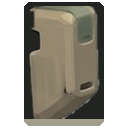
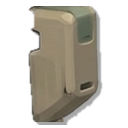
Bench: the fitted part re-cut as a clean cut-out (T-20261016-146)

Changed region(s): [[0.1875, 0.0, 0.8125, 1.0]]

diff --git a/art/station-masters/pods/bench/t146/proof.py b/art/station-masters/pods/bench/t146/proof.py
@@ -1,0 +1,44 @@
+"""T-20261016-146 proof at 1x, labelled: the Fit the upgrade? panel over the bench, with the T-47/T-70 kit and composite rule (glow, stage,
+contact shadow, the picture's feet on y + 168, the pool's light over it): Fit it (focused) shows the re-cut bench-part-t2-fitted-128, Not now
+shows bench-part-t2-dim-128. Stand-ins: the words, the cost icons (cropped from the Create golden's top bar), the ring; and the old fitted
+master beside it for comparison.
+usage: python3 -I bench/t146/proof.py SLICES BENCH_SLICES GOLDEN_DIR FONTS OLD_FITTED OUT"""
+import sys, os, numpy as np
+from PIL import Image, ImageDraw, ImageFont
+sl, bsl, gold, fonts, oldp, out = sys.argv[1:7]; os.makedirs(out, exist_ok=True)
+Lo = lambda p: Image.open(p).convert("RGBA"); S = lambda n: Lo(os.path.join(sl, n + ".png")); B = lambda n: Lo(os.path.join(bsl, n + ".png"))
+F = lambda w, z: ImageFont.truetype(os.path.join(fonts, f"Inter-{w}.ttf"), z)
+BONE, MIST, FOCUS = (0xf1, 0xeb, 0xdf), (0x8d, 0x8a, 0xa6), (0xff, 0xb4, 0x4a)
+cap = np.asarray(Image.open(os.path.join(gold, "create", "create-shape.png")).convert("RGB")).astype(float); bg = np.median(cap[4:36, 600:640].reshape(-1, 3), 0)
+def icon(x):
+    c = cap[12:28, x:x + 16]; d = np.abs(c - bg).max(2); a = np.clip((d - 10) / 40, 0, 1)
+    return Image.fromarray(np.dstack([c, a * 255]).astype(np.uint8), "RGBA")
+ENERGY, DATA = icon(443), icon(497)
+def panel(fitted):
+    f = Lo(os.path.join(gold, "bench", "bench.png")); f.alpha_composite(S("panel-veil-1024x522"), (0, 40)); f.alpha_composite(S("panel-housing-840x440"), (92, 80))
+    d = ImageDraw.Draw(f); t = "Fit the upgrade?"; d.text((512 - d.textlength(t, font=F("SemiBold", 28)) / 2, 96), t, font=F("SemiBold", 28), fill=BONE)
+    for i, (pic, name, costs, line) in enumerate(((fitted, "Fit it", True, "reaches further"), (B("bench-part-t2-dim-128"), "Not now", False, None))):
+        x, y, w = 124 + i * 396, 152, 380
+        f.alpha_composite(S(f"panel-card-{w}x288{'-focused' if i == 0 else ''}"), (x, y)); f.alpha_composite(S("panel-glow-348x160"), (x + 16, y + 16))
+        f.alpha_composite(S("panel-stage-348x48"), (x + 16, y + 136))
+        pa = np.asarray(pic)[..., 3]; rows = np.nonzero((pa >= 128).any(1))[0]; cols = np.nonzero((pa >= 128).any(0))[0]
+        px = x + 16 + (348 - pic.width) // 2; py = y + 168 - rows.max()
+        cs = S("panel-contact-shadow-128x16").resize((cols.max() - cols.min() + 17, 16), Image.LANCZOS); f.alpha_composite(cs, (px + cols.min() - 8, y + 160))
+        f.alpha_composite(pic, (px, py)); f.alpha_composite(S("panel-light-348x160"), (x + 16, y + 16))
+        d = ImageDraw.Draw(f); d.text((x + 16, y + 184), name, font=F("Medium", 20), fill=BONE)
+        if costs:
+            cx = x + 16
+            for ic, fig in ((ENERGY, "12"), (DATA, "4")):
+                gw = 20 + int(d.textlength(fig, font=F("Regular", 16))); chw = gw + 16; ch = S("panel-chip-40x20"); chip = Image.new("RGBA", (chw, 20))
+                chip.paste(ch.crop((0, 0, 10, 20)), (0, 0)); chip.paste(ch.crop((10, 0, 30, 20)).resize((chw - 20, 20)), (10, 0)); chip.paste(ch.crop((30, 0, 40, 20)), (chw - 10, 0))
+                f.alpha_composite(chip, (cx, y + 216)); f.alpha_composite(ic, (cx + 8, y + 218)); d = ImageDraw.Draw(f); d.text((cx + 28, y + 216), fig, font=F("Regular", 16), fill=FOCUS); cx += chw + 8
+        if line: d.text((x + 16, y + 244), line, font=F("Regular", 16), fill=MIST)
+        if i == 0: d.rounded_rectangle([x - 4, y - 4, x + w + 3, y + 291], radius=14, outline=FOCUS, width=2)
+    return f
+def label(f, s, y=540):
+    d = ImageDraw.Draw(f); lb = F("Medium", 16); d.rectangle([8, y, 16 + d.textlength(s, font=lb), y + 24], fill=(0, 0, 0)); d.text((12, y + 3), s, font=lb, fill=(255, 255, 255))
+a = panel(B("bench-part-t2-fitted-128")); label(a, "PROOF T-20261016-146: Fit the upgrade?, the fitted part re-cut (left) beside the dim part, 1x. Words, icons, ring: stand-ins")
+a.convert("RGB").save(os.path.join(out, "bench-panel-upgrade-1x.png"))
+b = panel(Lo(oldp)); label(b, "BEFORE (T-20261016-53): the fitted part in its dark socket box on a slab")
+sh = Image.new("RGB", (2 * 1024 + 8, 600)); sh.paste(b.convert("RGB"), (0, 0)); sh.paste(a.convert("RGB"), (1032, 0)); sh.save(os.path.join(out, "bench-panel-upgrade-before-after-1x.png"))
+print("written")

diff --git a/art/station-masters/pods/bench/t146/recut-fitted.py b/art/station-masters/pods/bench/t146/recut-fitted.py
@@ -1,0 +1,17 @@
+"""T-20261016-146: bench-part-t2-fitted-128 re-cut as a clean cut-out (same id, same size), so on the Fit it card it stands on the panel's
+plinth like bench-part-t2-dim-128 on Not now, not inside a dark socket box on a flat beige slab (results/T-20261016-53.md note 2).
+The fitted master was the tier 2 part seated in its socket. Inside the part's silhouette its pixels equal bench-part-t2-ready-128's (mean
+difference 1.1 / 255; the only larger ones are the slab's rows at the foot), so the painting holds no fitted-only detail. The cut-out keeps
+the fitted master's own pixels inside the part's silhouette (the ready master's alpha, its soft edge), takes the ready master's where the
+slab covered the foot, and drops the box and the slab. The part's contact shadow is left to the panel (panel-contact-shadow-128x16).
+usage: python3 -I bench/t146/recut-fitted.py   (run in art/station-masters/pods)"""
+import numpy as np
+from PIL import Image
+D = "bench/slices/"
+f = np.asarray(Image.open(D + "bench-part-t2-fitted-128.png").convert("RGBA")).astype(int)
+r = np.asarray(Image.open(D + "bench-part-t2-ready-128.png").convert("RGBA")).astype(int)
+diff = np.abs(f[..., :3] - r[..., :3]).max(2)
+rgb = np.where((diff > 12)[..., None], r[..., :3], f[..., :3])               # the slab's rows: the part's own pixels from the ready master
+out = np.dstack([rgb, r[..., 3]]); out[out[..., 3] == 0] = 0
+Image.fromarray(out.astype(np.uint8), "RGBA").save(D + "bench-part-t2-fitted-128.png")
+print("pixels taken from ready:", int(((diff > 12) & (r[..., 3] > 0)).sum()), "; alpha px:", int((r[..., 3] > 0).sum()))

diff --git a/art/station-masters/pods/bench/README.md b/art/station-masters/pods/bench/README.md
@@ -85,3 +85,16 @@ The 32 px plates and the 144/192 strips are retired from the bench only (they st
 Proofs (`plates-48/proof/`): `before-after-middle-1x.png` (station-gate 69ea1d23 golden `bench`, middle column, before and after; the after has the stage swapped and t1 with three whole plates at the spec places; the words "Shield" and the line are the build's, T-20261016-34), `after-bench-1x.png`, `mock-t2-1x.png`, `strips-2x.png`, `plates-32-vs-48-4x.png` and `stage-before-after-1x.png`.
 
 Signed by the art director at 1× in these mocks, 2026-10-16; to re-check in the builder's captures.
+
+## T-20261016-146: the fitted part as a clean cut-out
+On the "Fit the upgrade?" panel, `bench-part-t2-fitted-128` showed a dark socket box and a flat beige slab (`results/T-20261016-53.md` note 2).
+
+**Re-cut** under the same id and size (`t146/recut-fitted.py`): an alpha cut-out of the part.
+- **Why it can be a cut-out:** inside the part's silhouette the fitted master was the ready master's painting (mean difference 1.1/255), so it holds no fitted-only detail.
+- **What it keeps:** its own pixels inside the ready master's alpha, and the ready master's pixels where the slab covered the foot.
+- **What it drops:** the box and the slab.
+- **The contact shadow** is the panel's.
+
+**Proofs** (`t146/proof/`, labelled):
+- `bench-panel-upgrade-1x.png`: the panel by the T-70 composite rule, Fit it beside Not now's dim part;
+- `bench-panel-upgrade-before-after-1x.png`.
